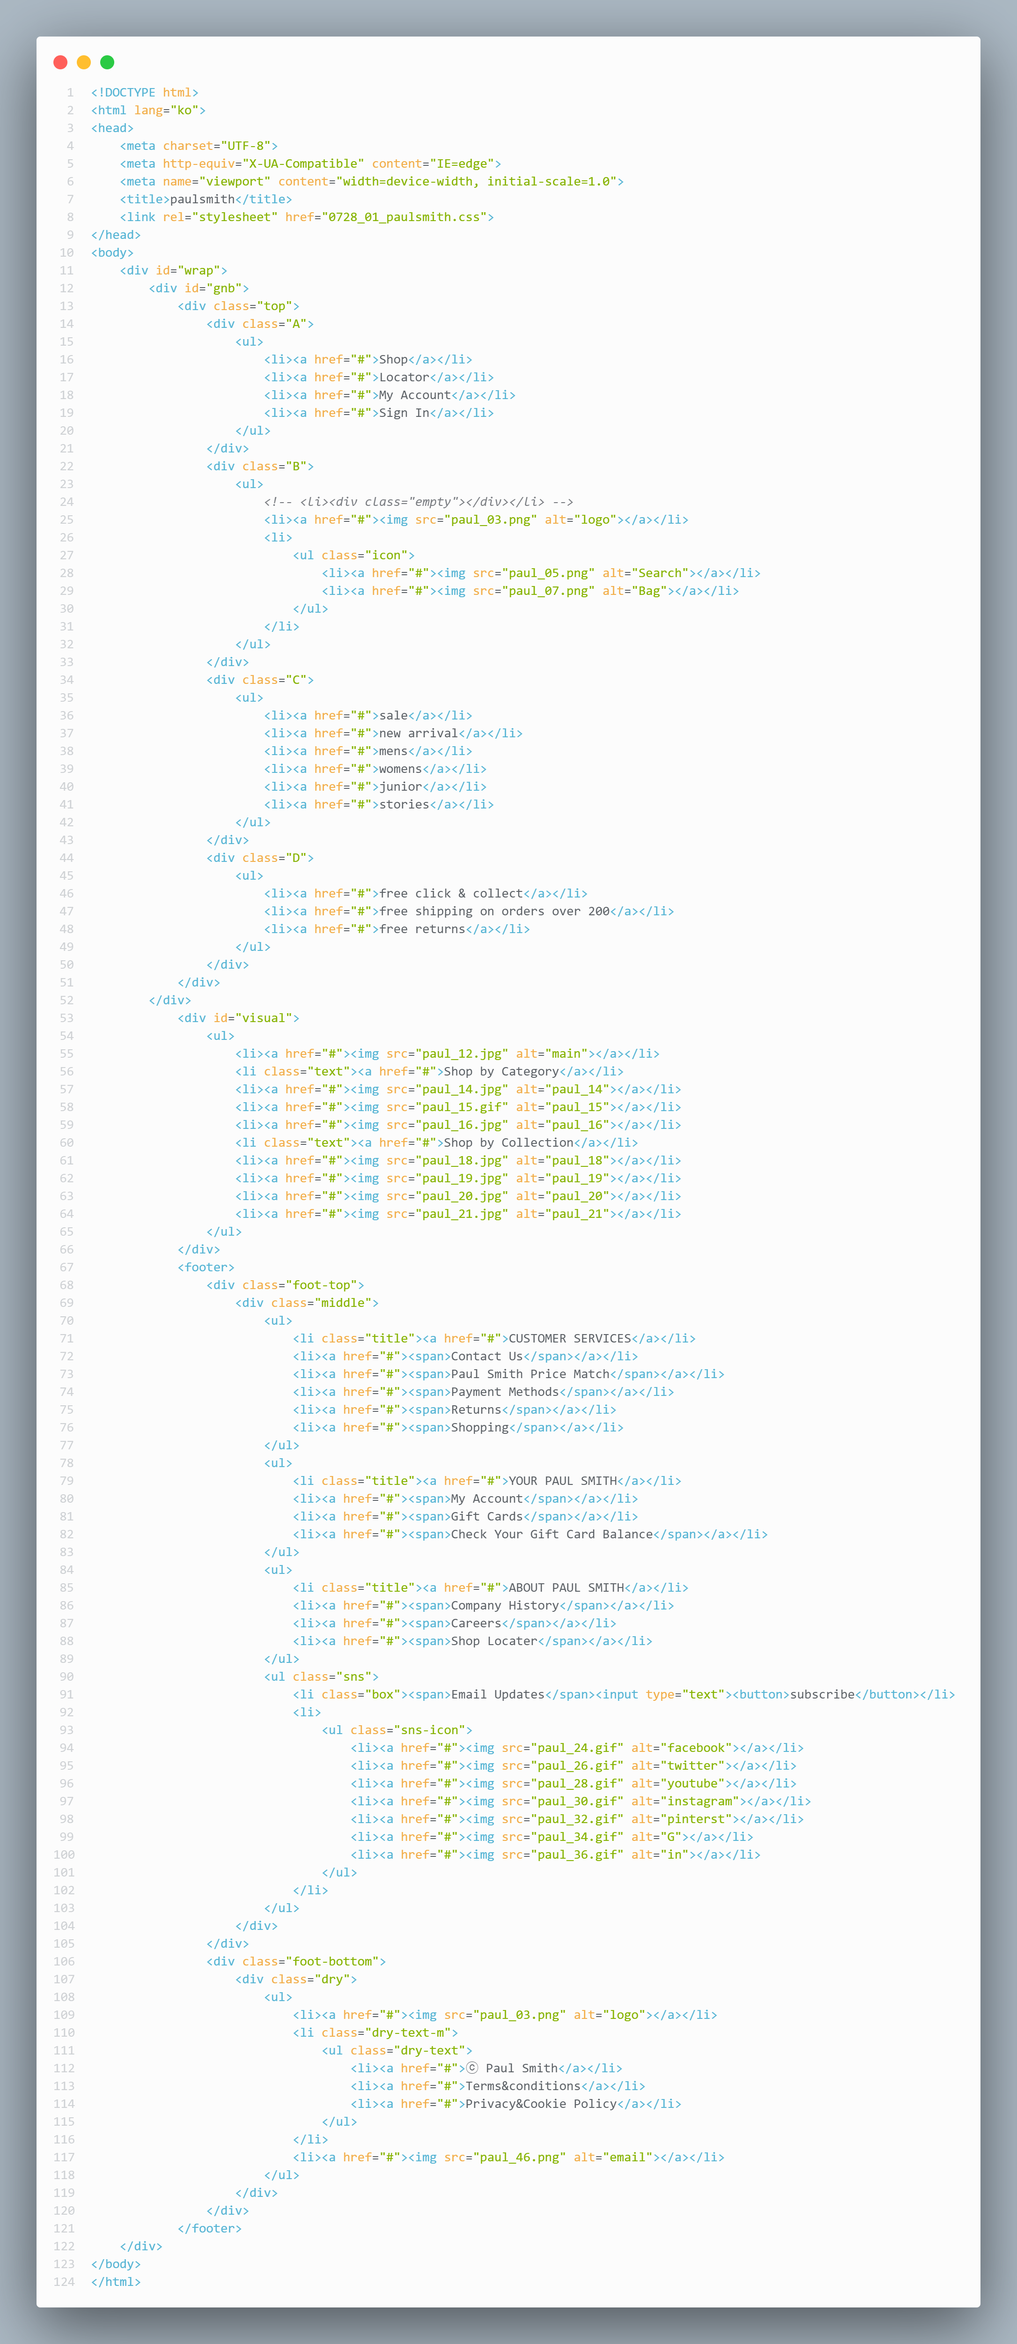
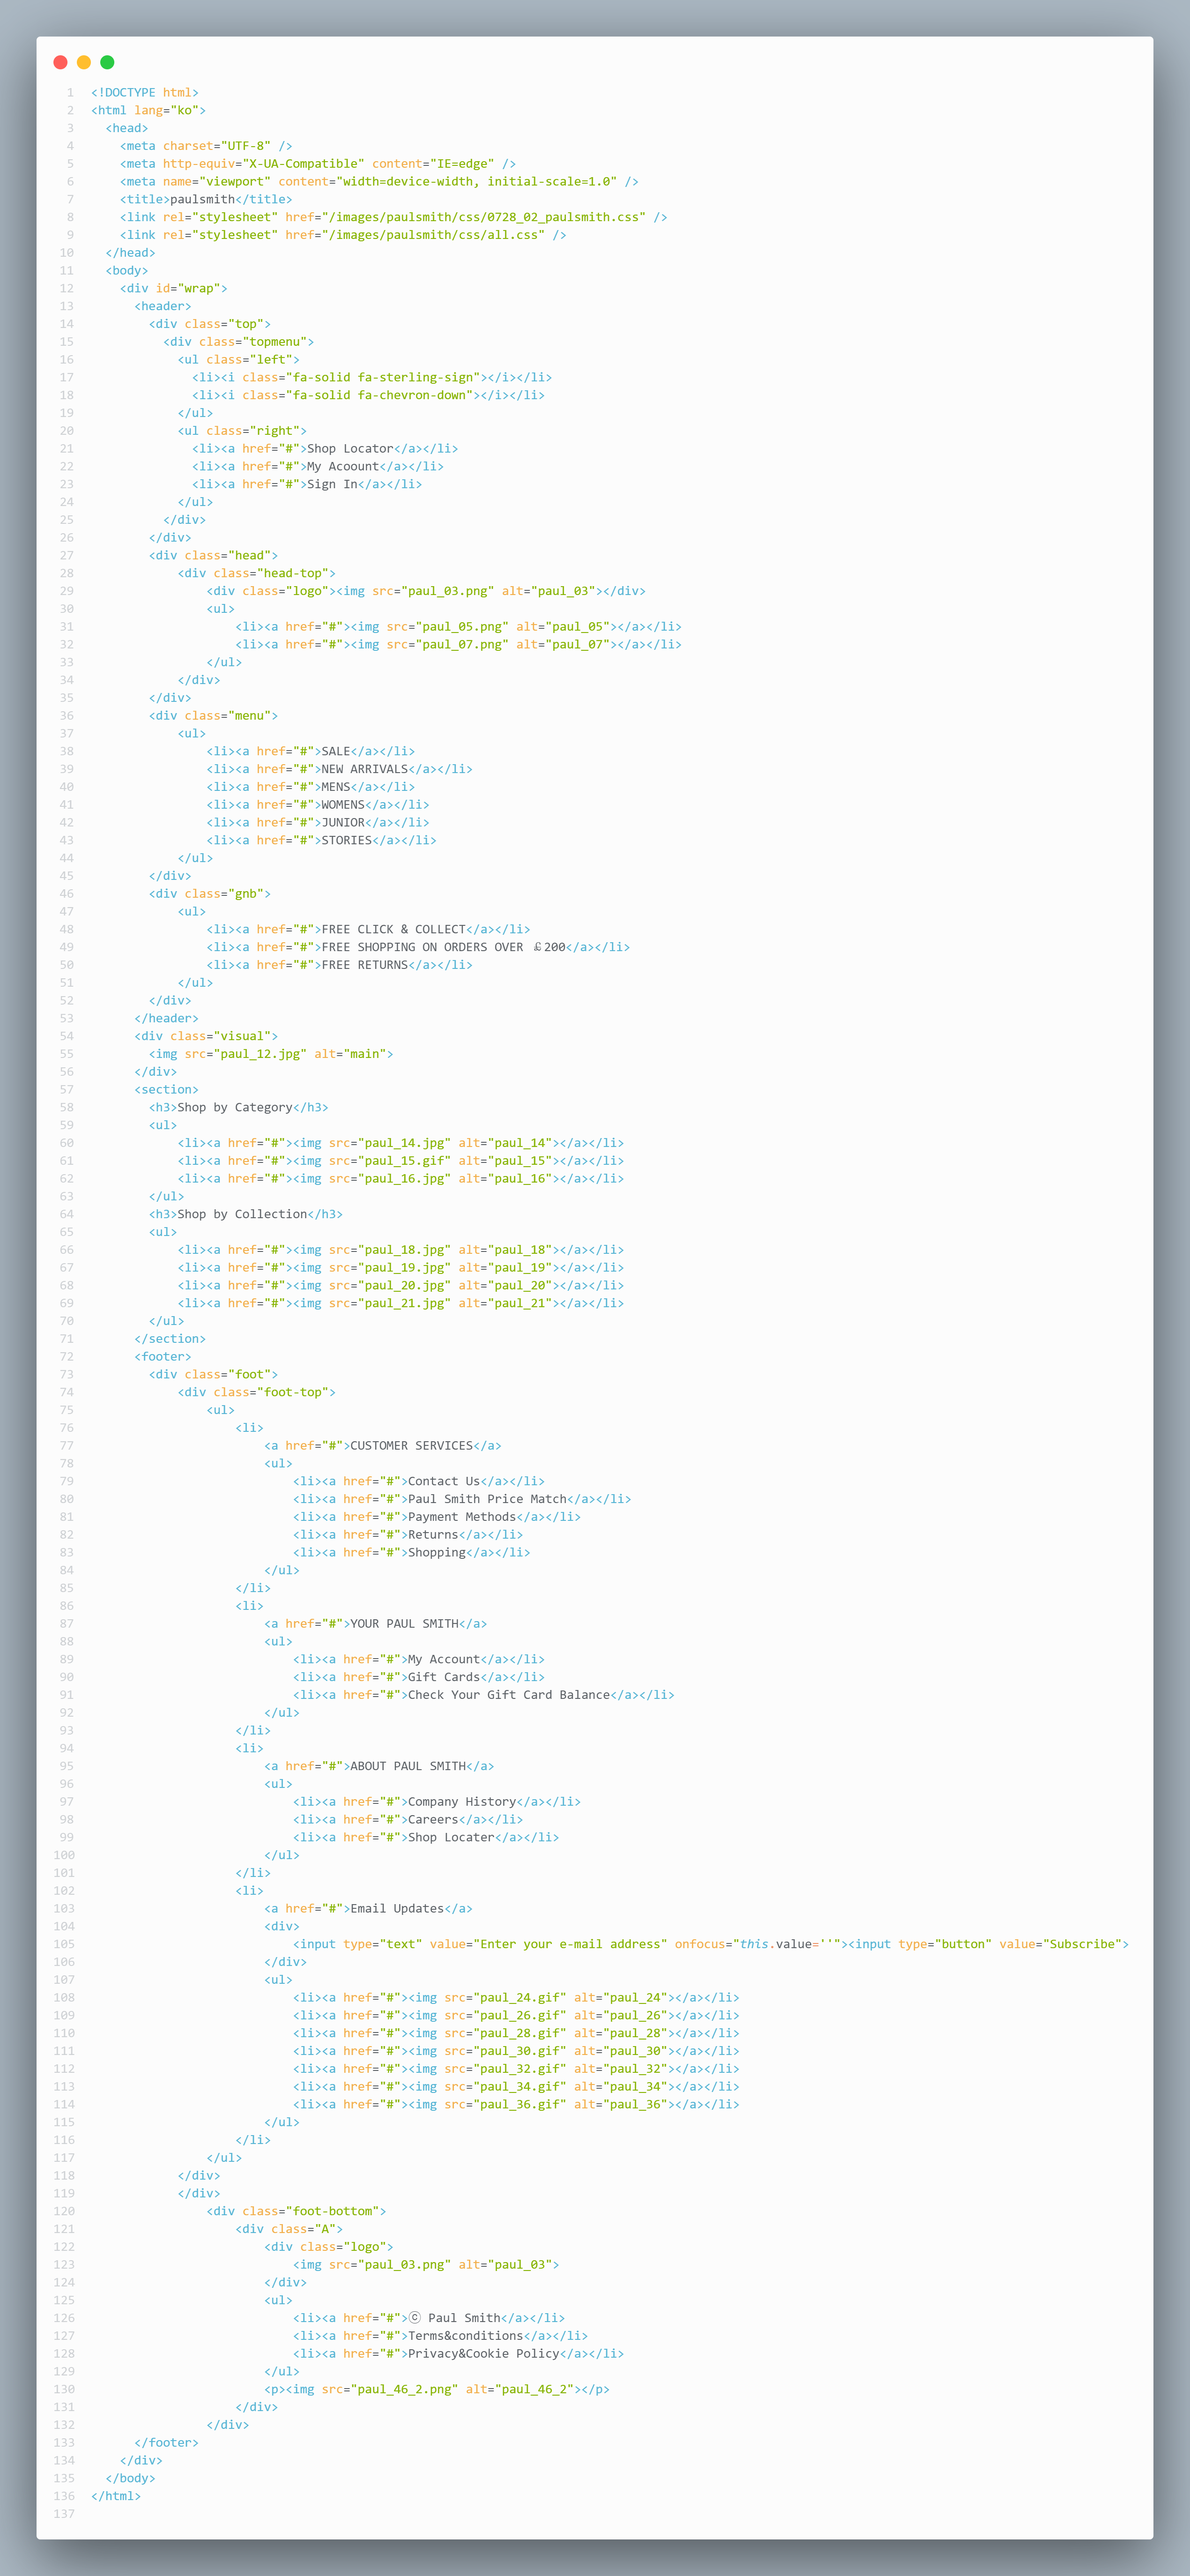
paulsmith

diff --git a/images/paulsmith/images/0728_02_paulsmith.html b/images/paulsmith/images/0728_02_paulsmith.html
@@ -33,7 +33,104 @@
                 </ul>
             </div>
         </div>
+        <div class="menu">
+            <ul>
+                <li><a href="#">SALE</a></li>
+                <li><a href="#">NEW ARRIVALS</a></li>
+                <li><a href="#">MENS</a></li>
+                <li><a href="#">WOMENS</a></li>
+                <li><a href="#">JUNIOR</a></li>
+                <li><a href="#">STORIES</a></li>
+            </ul>
+        </div>
+        <div class="gnb">
+            <ul>
+                <li><a href="#">FREE CLICK & COLLECT</a></li>
+                <li><a href="#">FREE SHOPPING ON ORDERS OVER ￡200</a></li>
+                <li><a href="#">FREE RETURNS</a></li>
+            </ul>
+        </div>
       </header>
+      <div class="visual">
+        <img src="paul_12.jpg" alt="main">
+      </div>
+      <section>
+        <h3>Shop by Category</h3>
+        <ul>
+            <li><a href="#"><img src="paul_14.jpg" alt="paul_14"></a></li>
+            <li><a href="#"><img src="paul_15.gif" alt="paul_15"></a></li>
+            <li><a href="#"><img src="paul_16.jpg" alt="paul_16"></a></li>
+        </ul>
+        <h3>Shop by Collection</h3>
+        <ul>
+            <li><a href="#"><img src="paul_18.jpg" alt="paul_18"></a></li>
+            <li><a href="#"><img src="paul_19.jpg" alt="paul_19"></a></li>
+            <li><a href="#"><img src="paul_20.jpg" alt="paul_20"></a></li>
+            <li><a href="#"><img src="paul_21.jpg" alt="paul_21"></a></li>
+        </ul>
+      </section>
+      <footer>
+        <div class="foot">
+            <div class="foot-top">
+                <ul>
+                    <li>
+                        <a href="#">CUSTOMER SERVICES</a>
+                        <ul>
+                            <li><a href="#">Contact Us</a></li>
+                            <li><a href="#">Paul Smith Price Match</a></li>
+                            <li><a href="#">Payment Methods</a></li>
+                            <li><a href="#">Returns</a></li>
+                            <li><a href="#">Shopping</a></li>
+                        </ul>
+                    </li>
+                    <li>
+                        <a href="#">YOUR PAUL SMITH</a>
+                        <ul>
+                            <li><a href="#">My Account</a></li>
+                            <li><a href="#">Gift Cards</a></li>
+                            <li><a href="#">Check Your Gift Card Balance</a></li>
+                        </ul>
+                    </li>
+                    <li>
+                        <a href="#">ABOUT PAUL SMITH</a>
+                        <ul>
+                            <li><a href="#">Company History</a></li>
+                            <li><a href="#">Careers</a></li>
+                            <li><a href="#">Shop Locater</a></li>
+                        </ul>
+                    </li>
+                    <li>
+                        <a href="#">Email Updates</a>
+                        <div>
+                            <input type="text" value="Enter your e-mail address" onfocus="this.value=''"><input type="button" value="Subscribe">
+                        </div>
+                        <ul>
+                            <li><a href="#"><img src="paul_24.gif" alt="paul_24"></a></li>
+                            <li><a href="#"><img src="paul_26.gif" alt="paul_26"></a></li>
+                            <li><a href="#"><img src="paul_28.gif" alt="paul_28"></a></li>
+                            <li><a href="#"><img src="paul_30.gif" alt="paul_30"></a></li>
+                            <li><a href="#"><img src="paul_32.gif" alt="paul_32"></a></li>
+                            <li><a href="#"><img src="paul_34.gif" alt="paul_34"></a></li>
+                            <li><a href="#"><img src="paul_36.gif" alt="paul_36"></a></li>
+                        </ul>
+                    </li>
+                </ul>
+            </div>
+            </div>
+                <div class="foot-bottom">
+                    <div class="A">
+                        <div class="logo">
+                            <img src="paul_03.png" alt="paul_03">
+                        </div>
+                        <ul>
+                            <li><a href="#">ⓒ Paul Smith</a></li>
+                            <li><a href="#">Terms&conditions</a></li>
+                            <li><a href="#">Privacy&Cookie Policy</a></li>
+                        </ul>
+                        <p><img src="paul_46_2.png" alt="paul_46_2"></p>
+                    </div>
+                </div>
+      </footer>
     </div>
   </body>
 </html>

diff --git a/images/paulsmith/css/0728_02_paulsmith.css b/images/paulsmith/css/0728_02_paulsmith.css
@@ -1,4 +1,8 @@
 @charset "UTF-8";
+@font-face {
+  font-family: solid;
+  src: url(/images/paulsmith/webfonts/fa-solid-900.woff2) format("woff2");
+}
 
 * {
   margin: 0;
@@ -26,38 +30,180 @@ body {
   justify-content: space-between;
   color: #fff;
   line-height: 30px;
-  border: 1px solid red;
 }
 .top .topmenu ul {
   display: flex;
 }
-.top .topmenu ul.left{
+.top .topmenu ul.left {
   margin-left: 50px;
 }
-.top .topmenu ul.right{
+.top .topmenu ul.right {
   margin-right: 50px;
 }
 .top .topmenu ul.left li {
-  margin-right: 50px;
+  margin-right: 20px;
 }
 .top .topmenu ul.right li a {
   color: #fff;
   margin-left: 20px;
   text-align: center;
+  font-size: 12px;
 }
-.head{
+.head {
   width: 1903px;
   margin: 20px auto;
   display: flex;
   justify-content: flex-end;
-  border: 1px solid #000;
 }
-.head .head-top{
+.head .head-top {
   width: calc(50% + 98.5px);
   display: flex;
   justify-content: space-between;
 }
-.head .head-top ul{
+.head .head-top ul {
   display: flex;
   margin-right: 50px;
+}
+.menu {
+  width: 1903px;
+  margin: 20px auto 50px;
+  display: flex;
+  justify-content: center;
+}
+.menu ul {
+  width: 40%;
+  display: flex;
+  justify-content: space-between;
+}
+.menu ul li a {
+  font-size: 12px;
+}
+.menu ul li a::after {
+  content: "\f078";
+  font-family: solid;
+  padding-left: 10px;
+  color: #ccc;
+}
+.gnb{
+  width: 100%;
+  min-width: 1903px;
+  background: #80D4C7;
+}
+.gnb ul{
+  width: 1903px;
+  margin: 0 auto;
+  display: flex;
+  justify-content: center;
+  line-height: 50px;
+}
+.gnb ul li{
+  margin-left: 100px;
+}
+.gnb ul li:first-child{
+  margin-left: 0;
+}
+.gnb ul li a{
+  text-decoration: underline;
+  font-size: 14px;
+}
+section{
+  width: 1903px;
+  margin: 0 auto;
+}
+section h3{
+  text-align: center;
+  padding: 30px 0;
+  color: #434343;
+  font-weight: normal;
+  text-decoration: underline;
+  text-underline-offset: 6px;
+}
+section ul{
+  display: flex;
+}
+.foot{
+  width: 100%;
+  min-width: 1903px;
+  background: #f8f8f8;
+  border-top: 1px solid #e0e0e0;
+  border-bottom: 1px solid #e0e0e0;
+  margin-top: 50px;
+}
+.foot .foot-top{
+  width: 1903px;
+  height: 300px;
+  margin: 0 auto;
+  display: flex;
+  justify-content: center;
+  align-items: center;
+}
+.foot .foot-top > ul{
+  width: 60%;
+  display: flex;
+  justify-content: space-between;
+}
+.foot .foot-top > ul > li{
+  /* width: 25%; */
+}
+.foot .foot-top > ul > li > a{
+  display: block;
+  margin-bottom: 30px;
+  color: #191919;
+  font-weight: bold;
+}
+.foot .foot-top > ul > li li a{
+  line-height: 30px;
+  color: #939393;
+}
+.foot .foot-top > ul > li:last-child ul{
+  display: flex;
+  justify-content: space-between;
+  margin-top: 30px;
+}
+.foot .foot-top > ul > li:last-child input{
+  padding: 10px;
+  border: 1px solid #ccc;
+  border-right: transparent;
+}
+.foot .foot-top > ul > li:last-child input:last-child{
+  background: #252525;
+  color: #fff;
+  border: 1px solid #252525;
+}
+:focus{
+  outline: none;
+}
+.foot-bottom{
+  width: 1903px;
+  margin: 0 auto;
+}
+.foot-bottom .A{
+  width: 60%;
+  height: 100px;
+  margin: 0 auto;
+  display: flex;
+  justify-content: space-between;
+  align-items: center;
+}
+.foot-bottom .A ul{
+  display: flex;
+}
+.foot-bottom .A ul li a{
+  font-size: 14px;
+}
+.foot-bottom .A ul li a::after{
+  position: relative;
+  top: -2px;
+  content: "|";
+  padding: 0 10px;
+  font-size: 10px;
+  color: rgba(0, 0, 0, 0.5);
+}
+.foot-bottom .A ul li:last-child a::after{
+  content: "";
+}
+.foot-bottom .A p{
+  position: fixed;
+  right: 0;
+  bottom: 0;
 }
